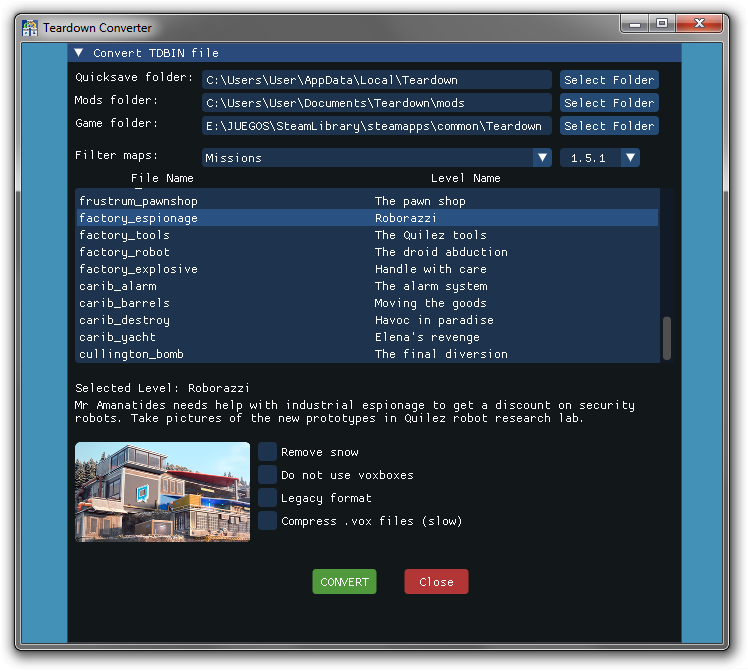
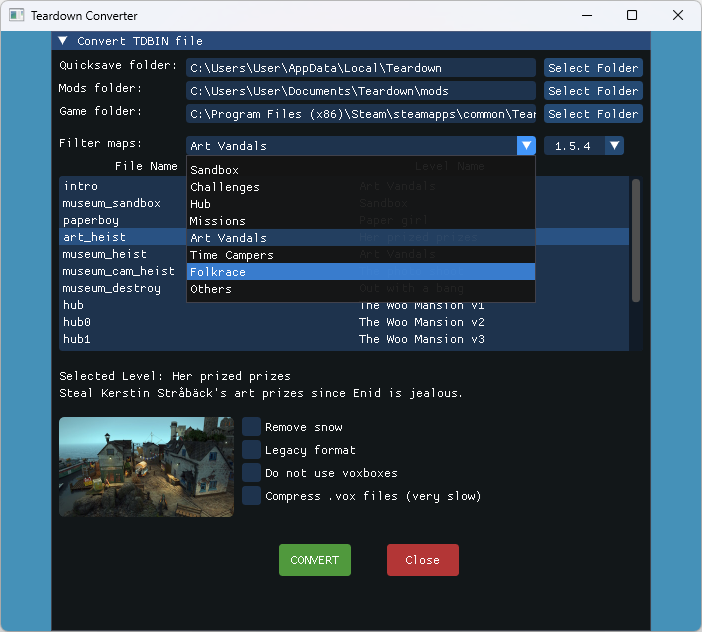
Set screen positions

diff --git a/main.cpp b/main.cpp
@@ -475,7 +475,7 @@ int main(int argc, char* argv[]) {
 				ImGuiFileDialog::Instance()->Close();
 			}
 
-			ImGui::Text("Mods folder:	 ");
+			ImGui::Text("Mods folder:     ");
 			ImGui::SameLine();
 			ImGui::PushItemWidth(350);
 			ImGui::InputText("##modsfolder", mods_folder, IM_ARRAYSIZE(mods_folder));
@@ -490,7 +490,7 @@ int main(int argc, char* argv[]) {
 				ImGuiFileDialog::Instance()->Close();
 			}
 
-			ImGui::Text("Game folder:	 ");
+			ImGui::Text("Game folder:     ");
 			ImGui::SameLine();
 			ImGui::PushItemWidth(350);
 			ImGui::InputText("##gamefolder", game_folder, IM_ARRAYSIZE(game_folder));
@@ -506,7 +506,7 @@ int main(int argc, char* argv[]) {
 			}
 			ImGui::Dummy(ImVec2(0, 5));
 
-			ImGui::Text("Filter maps:	 ");
+			ImGui::Text("Filter maps:     ");
 			ImGui::SameLine();
 
 			ImGui::PushItemWidth(350);
@@ -562,13 +562,13 @@ int main(int argc, char* argv[]) {
 				preview_texture = LoadTexture(texture_path.c_str());
 			}
 			if (preview_texture != 0)
-				ImGui::Image((void*)(intptr_t)preview_texture, ImVec2(175, 100));
+				ImGui::Image((void*)(uintptr_t)preview_texture, ImVec2(175, 100));
 
 			ImGui::SameLine();
 			ImGui::BeginGroup();
 			ImGui::Checkbox("Remove snow", &remove_snow);
-			ImGui::Checkbox("Do not use voxboxes", &no_voxbox);
 			ImGui::Checkbox("Legacy format", &save_as_legacy);
+			ImGui::Checkbox("Do not use voxboxes", &no_voxbox);
 			ImGui::Checkbox("Compress .vox files (very slow)", &use_tdcz);
 			ImGui::EndGroup();
 			ImGui::Dummy(ImVec2(0, 5));
@@ -592,8 +592,8 @@ int main(int argc, char* argv[]) {
 			ImGui::PushStyleColor(ImGuiCol_ButtonActive, (ImVec4)ImColor::HSV(0.3f, 0.8f, 0.8f));
 
 			ImGui::Spacing();
-			ImGui::SameLine(ImGui::GetWindowSize().x / 2 - 62);
-			if (ImGui::Button("CONVERT", ImVec2(64, 25))) {
+			ImGui::SameLine(ImGui::GetWindowSize().x / 2 - 72);
+			if (ImGui::Button("CONVERT", ImVec2(72, 32))) {
 				progress = 0;
 				disable_convert = true;
 
@@ -655,8 +655,8 @@ int main(int argc, char* argv[]) {
 			ImGui::PushStyleColor(ImGuiCol_ButtonHovered, (ImVec4)ImColor::HSV(0.0f, 0.8f, 0.8f));
 			ImGui::PushStyleColor(ImGuiCol_ButtonActive, (ImVec4)ImColor::HSV(0.0f, 0.9f, 0.9f));
 
-			ImGui::SameLine(ImGui::GetWindowSize().x / 2 + 30);
-			if (ImGui::Button("Close", ImVec2(64, 25)))
+			ImGui::SameLine(ImGui::GetWindowSize().x / 2 + 36);
+			if (ImGui::Button("Close", ImVec2(72, 32)))
 				glfwSetWindowShouldClose(window, true);
 			ImGui::PopStyleColor(3);
 
